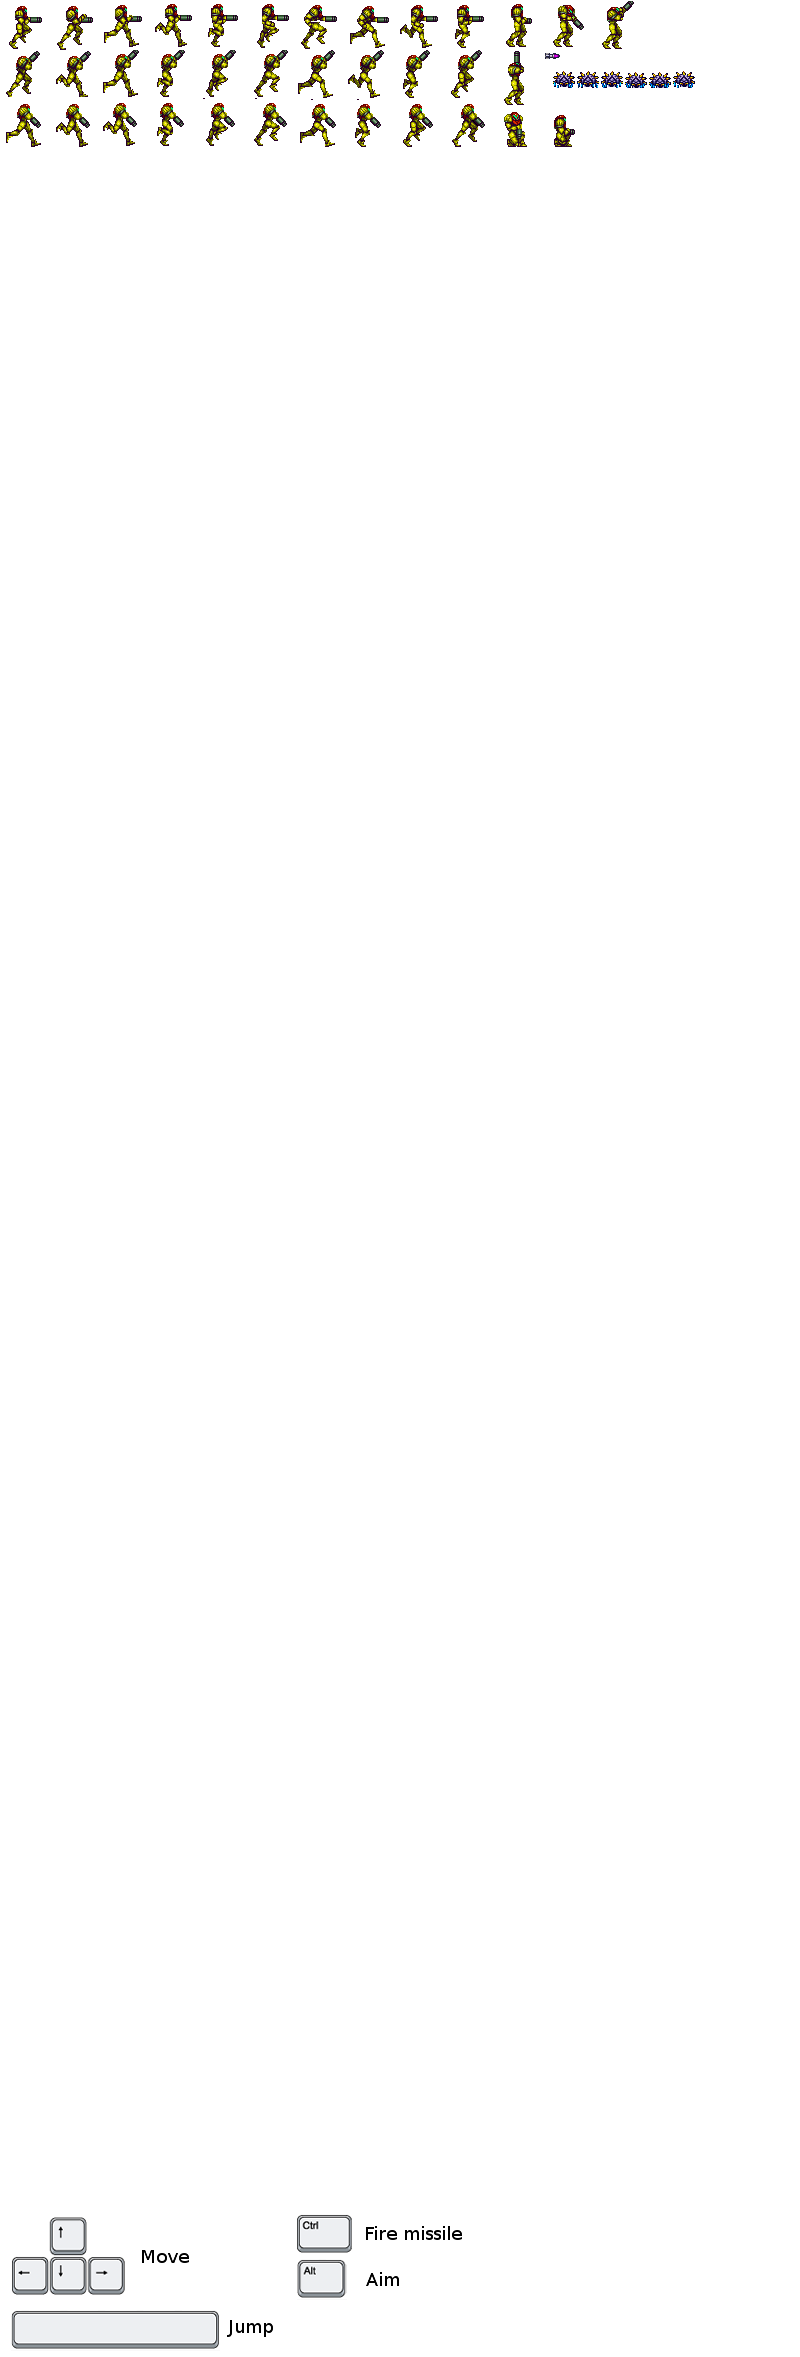
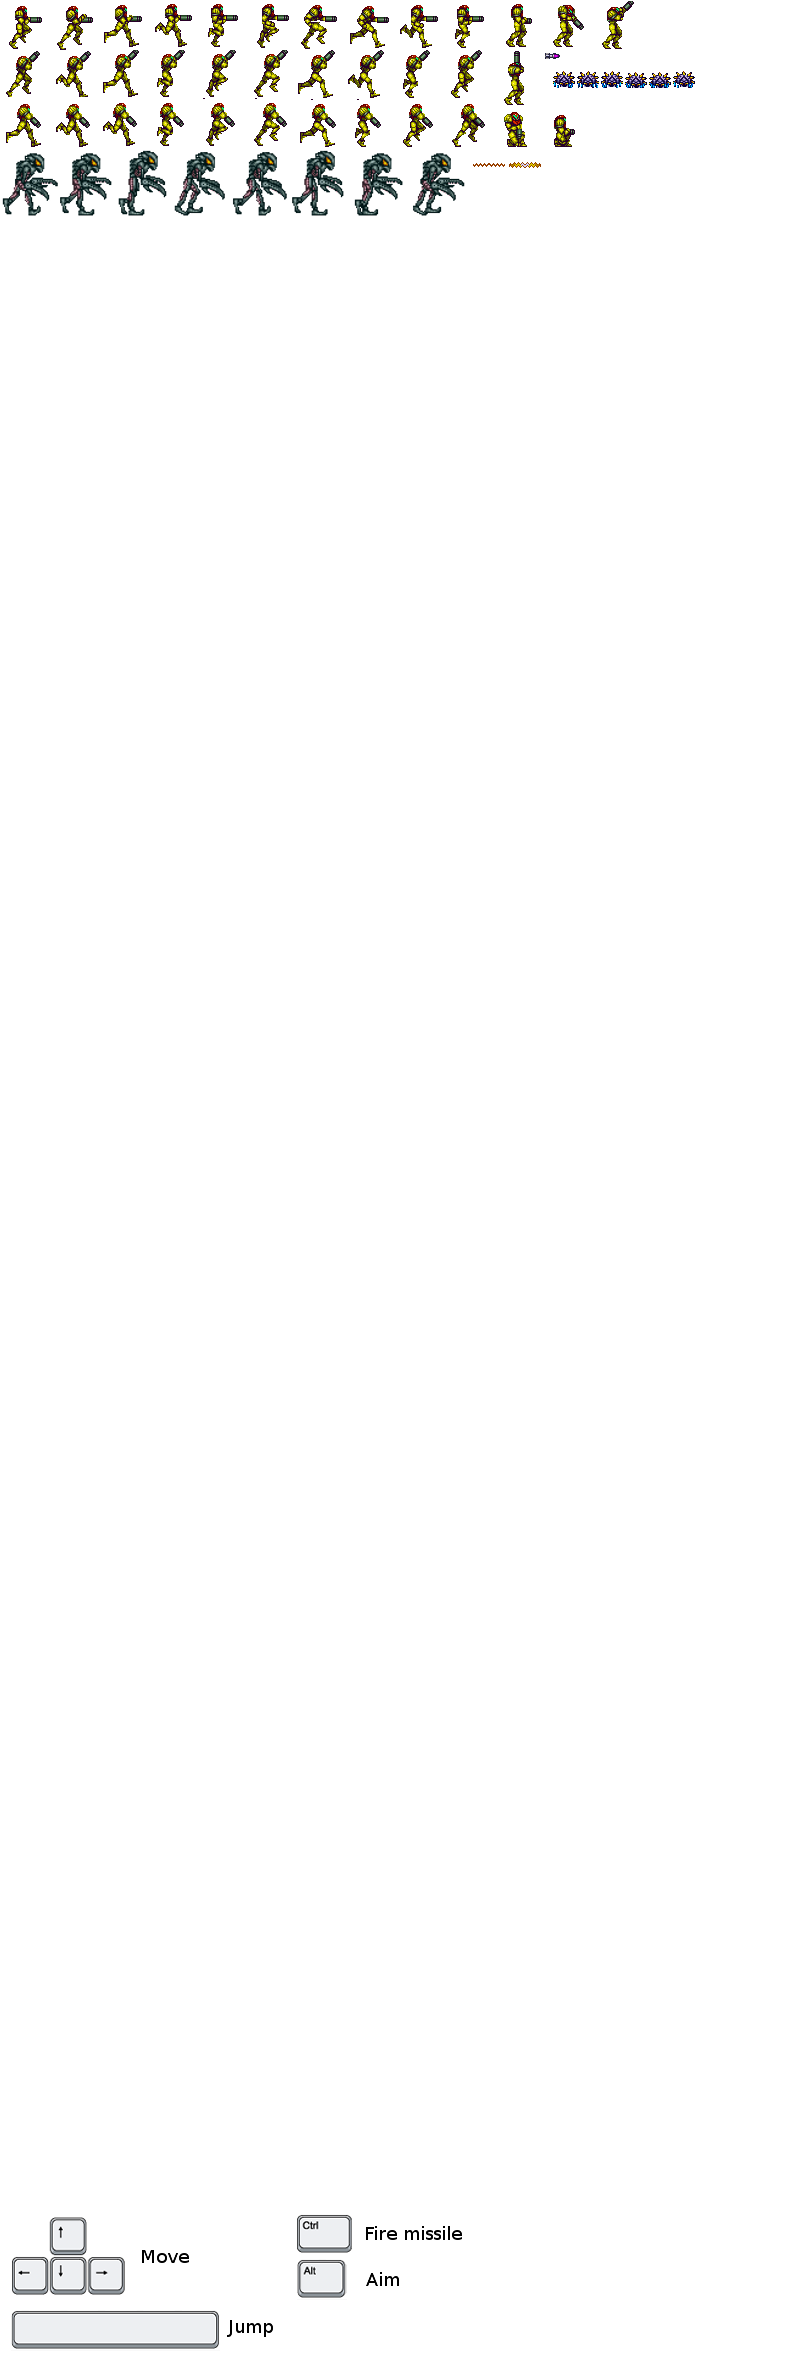
Add space pirates (just walkers atm)

Changed region(s): [[0.0, 0.0619, 0.5625, 0.0929]]

diff --git a/nitroid.js b/nitroid.js
@@ -145,6 +145,16 @@ var nitroid = new function() {
 				tile_start: new vector(552, 70),
 				tile_size: new vector(24, 18),
 				frames: 6
+			},
+			space_pirate: {
+				tile_start: new vector(0, 150),
+				tile_size: new vector(58, 66),
+				frames: 8
+			},
+			space_pirate_beam: {
+				tile_start: new vector(470, 160),
+				tile_size: new vector(36,10),
+				frames: 2
 			}
 		};
 		/* animation_data: animation, frame, facing, blink */ //blink: 0 -> 2.0 (0: solid, 1.0: transparent, 2.0: solid)
@@ -155,6 +165,12 @@ var nitroid = new function() {
 				damage: 20.0,
 				speed: 9.0,
 				blast: 20.0
+			},
+			{
+				animation: animations.space_pirate_beam,
+				damage: 20.0,
+				speed: 15.0,
+				blast: 5.0
 			}
 		];
 
@@ -169,6 +185,7 @@ var nitroid = new function() {
 			if(enemy_collision_test(e, new_pos)
 				|| !enemy_collision_test(e, new_pos.minus(new vector(0, -1))) ) {
 				e.direction *= -1;
+				e.animation_data.facing = e.direction;
 			} else {
 				e.position = new_pos;
 			}
@@ -181,6 +198,18 @@ var nitroid = new function() {
 				spawn_cost: 5,
 				spawn_depth: [0.0, 100.0], /* depth range this enemy occur in, set max to -1 to never limit */
 				life: 20,
+				speed: 2.0,
+				touch_damage: 10.0,
+				run: function(e) { /* e : enemy instance */
+					enemy_walker(e, this.speed);
+				}
+			},
+			{
+				/* space pirate */
+				animation: animations.space_pirate,
+				spawn_cost: 5,
+				spawn_depth: [0.0, 100.0], /* depth range this enemy occur in, set max to -1 to never limit */
+				life: 50,
 				speed: 2.0,
 				touch_damage: 10.0,
 				run: function(e) { /* e : enemy instance */
@@ -687,19 +716,23 @@ var nitroid = new function() {
 										possible_spawns.push(e);
 								}
 							}
+							var i = 0;
 							while(spawn_resources > 0 && possible_spawns.length > 0) {
-								var s = Math.floor(frand(y) * possible_spawns.length);
+								var s = Math.floor(frand(y + i) * possible_spawns.length);
 								if(possible_spawns[s].spawn_cost < spawn_resources) {
-									spawn_resources -= possible_spawns[i].spawn_cost;
+									spawn_resources -= possible_spawns[s].spawn_cost;
+									var dir = Math.random() > 0.5 ? 1 : -1;
 									spawn_list.push({
 										/* position:  - set later */
+										direction: dir,
 										type: s,
 										life: possible_spawns[s].life,
-										animation_data: {animation: possible_spawns[s].animation, frame: 0, facing: 1, blink: 0.0}
+										animation_data: {animation: possible_spawns[s].animation, frame: 0, facing: dir, blink: 0.0}
 									});
 								} else {
 									possible_spawns.splice(s, 1);
 								}
+								++i;
 							}
 						}
 
